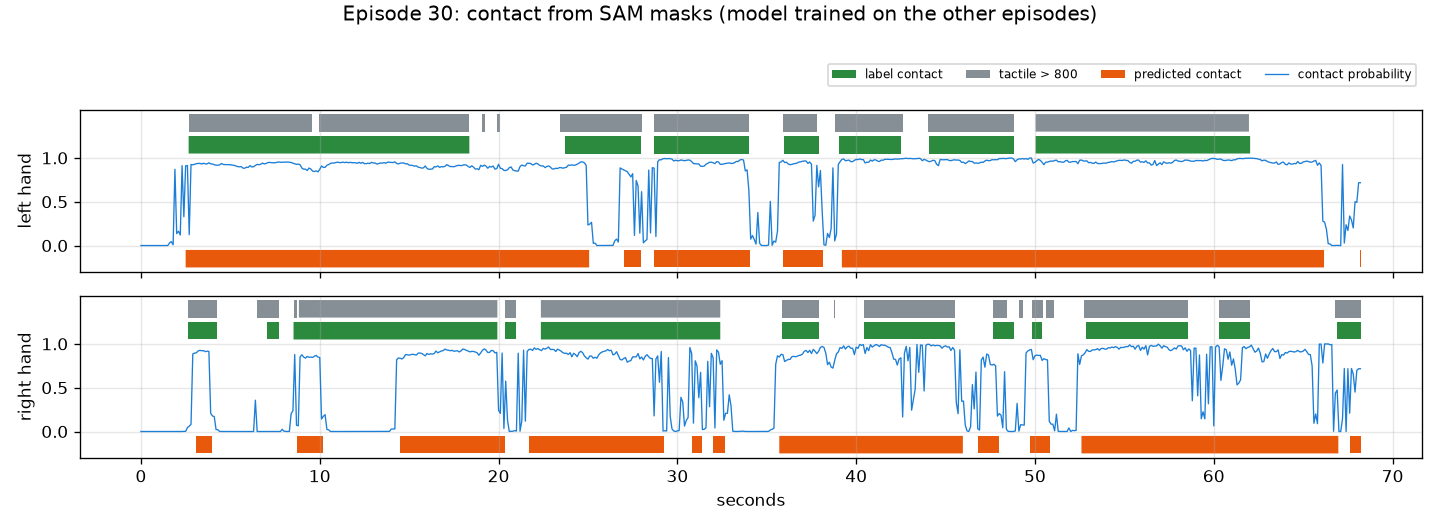
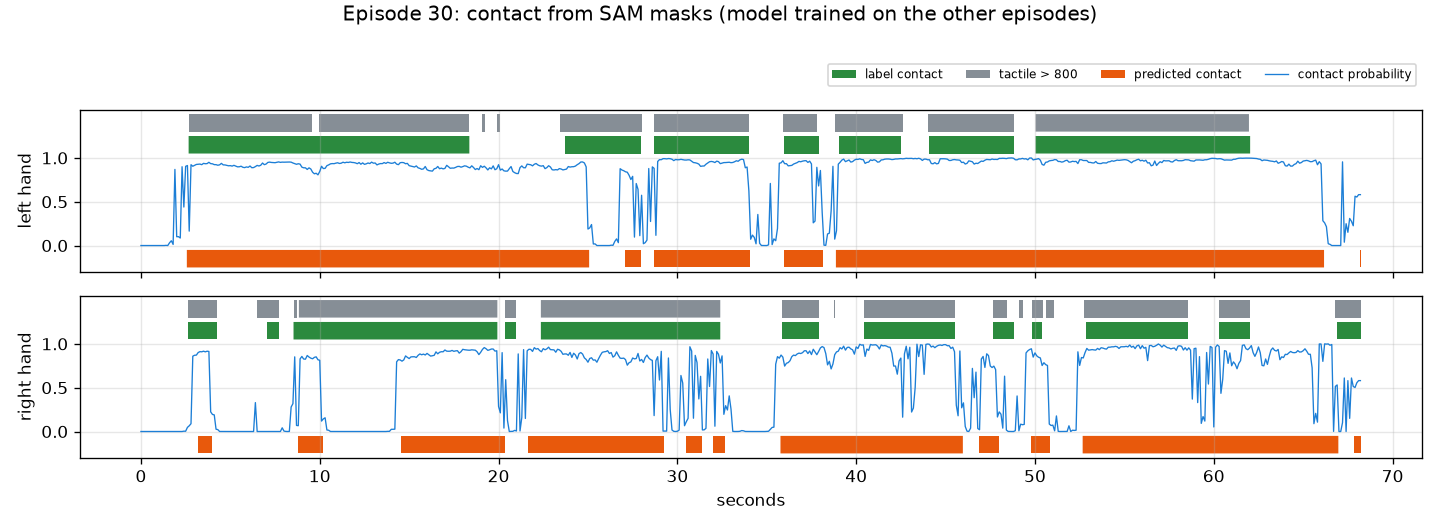
Make the cleaned glove the main ground truth on the page
The other session fixed the evaluation 1 ground truth: the glove signal
above 800, with dropouts of 0.1 s or less joined and pieces under 0.1 s
dropped, since that flicker is pressure crossing the threshold and no
video method can see it. Raw glove and labels stay as checks.

The measurement plan section, the in-progress scoring notes, the method
table and the phase 2 checklist now say so, and the glove flicker open
problem is closed. EXP-14 lists the cleaned glove rows first as main and
its key names the cleaned glove. EXP-06 notes that its contact figures
were redrawn with the model trained on that ground truth, and the
episode 53 caption no longer quotes end delays the redrawn figure does
not show.

diff --git a/index.html b/index.html
@@ -421,7 +421,7 @@
         </table>
       </div>
     </div>
-    <p class="note">정답은 촉각 장갑(손당 80개 센서 합 &gt; 800), 데이터셋 라벨은 확인용. 지표는 boundary F1(±5, ±15프레임)과 contact IoU, 손별과 합산. B의 시작·끝 지연도 함께 보고. 장갑은 압력을 재고 영상은 압력을 볼 수 없으므로 ±5프레임에서는 세 방법 모두 낮게 나올 수 있고, 주장하는 것은 방법 사이의 차이다.</p>
+    <p class="note">정답은 정리한 촉각 장갑(손당 80개 센서 합 &gt; 800에서 0.1초 이하 끊김은 잇고 0.1초보다 짧은 조각은 버림). 장갑 원신호와 데이터셋 라벨은 확인용으로 같이 보고(EXP-14에서 확정). 지표는 boundary F1(±5, ±15프레임)과 contact IoU, 손별과 합산. B의 시작·끝 지연도 함께 보고. 장갑은 압력을 재고 영상은 압력을 볼 수 없으므로 ±5프레임에서는 세 방법 모두 낮게 나올 수 있고, 주장하는 것은 방법 사이의 차이다.</p>
 
     <div class="tbl" style="margin-top:18px">
       <p class="cap">평가 2: 우리 점수가 로봇 손이 따라할 수 있는 클립을 고르는가</p>
@@ -489,11 +489,6 @@
               <td class="first">방법 B가 연이은 접촉을 묶음</td>
               <td>손이 늘 어떤 물체 곁에 있어 접촉 여러 개가 한 구간이 됨. 경계 190~248개 중 52개만 찾음 (EXP-14)</td>
               <td>가장 가까운 물체가 바뀌거나 손이 잠깐 떨어지면 끊는 규칙을 튜닝 50개에서 정함</td>
-            </tr>
-            <tr>
-              <td class="first">장갑 정답의 깜빡임</td>
-              <td>압력이 임계값을 넘나들어 0.2초 미만 구간과 0.1초 이하 틈이 생김. 영상으로는 볼 수 없는 경계</td>
-              <td>0.1초 이하 끊김과 튀는 값을 정리한 장갑 신호를 주 정답으로 쓰는 안. 검증 세트 전에 결정</td>
             </tr>
             <tr>
               <td class="first">HOT3D 어안 왜곡</td>
@@ -894,7 +889,7 @@ video:  clip.mp4 (150 frames)</pre>
     <!-- EXP-06 -->
     <article class="exp" id="exp-06">
       <div class="exp-h"><span class="id">EXP-06</span><span class="t">접촉 구간 검출 파일럿</span><span class="d">10/27</span></div>
-      <p class="note">이 실험 뒤 측정 계획을 다시 맞추면서, 여기서 쓴 특징 13개 로지스틱 회귀는 비교 대상이 아니라 부록이 됐고 정답의 주 기준은 촉각 장갑으로 바뀌었다. 비교 대상은 요약 페이지의 측정 계획을 따른다.</p>
+      <p class="note">이 실험 뒤 측정 계획을 다시 맞추면서, 여기서 쓴 특징 13개 로지스틱 회귀는 비교 대상이 아니라 부록이 됐고 정답의 주 기준은 촉각 장갑으로 바뀌었다. 비교 대상은 요약 페이지의 측정 계획을 따른다. 접촉 그림 세 장은 주 정답(정리한 장갑)으로 다시 학습한 모델로 새로 그렸고, 표는 처음 실행(라벨, 장갑 원신호) 그대로다.</p>
       <dl class="spec">
         <dt>질문</dt><dd>튜닝 50개를 모두 보내기 전에, SAM 3.1이 에피소드 전체(1~2.5분)에서 추적을 유지하는가. 접촉 추정이 끝까지 돌고 첫 신호가 나오는가.</dd>
         <dt>입력</dt><dd>튜닝 에피소드 3개. 0번은 146초, 투명 용기 사이로 작은 흑백 원판을 옮기며 오른손이 48번 닿는다. 30번은 68초, 주황색 종이 상자. 53번은 74초, 스프레이병이고 머리가 움직인다.</dd>
@@ -994,7 +989,7 @@ video:  에피소드 하나 전체, 10fps
 
       <figure>
         <img src="assets/exp06_ep53_contact.png" loading="lazy" width="1440" height="528" alt="에피소드 53에서 손별 접촉 확률, 예측 접촉, 라벨 접촉, 촉각 접촉을 시간축에 그린 그림">
-        <div class="keys"><span class="key"><i class="ln" style="--c:#1c7ed6"></i>접촉 확률</span><span class="key"><i class="" style="--c:#2b8a3e"></i>라벨상 접촉</span><span class="key"><i class="" style="--c:#868e96"></i>촉각 800 초과</span><span class="key"><i class="" style="--c:#e8590c"></i>예측 접촉</span></div><figcaption>에피소드 53, 에피소드 0과 30으로 학습한 모델. 오래 쥐는 구간은 잡는다. 9초와 13초의 짧게 놓는 순간은 놓치고, 끝은 손이 병 옆에 남아 있는 동안 1~3초 늦는다.</figcaption>
+        <div class="keys"><span class="key"><i class="ln" style="--c:#1c7ed6"></i>접촉 확률</span><span class="key"><i class="" style="--c:#2b8a3e"></i>라벨상 접촉</span><span class="key"><i class="" style="--c:#868e96"></i>촉각 800 초과</span><span class="key"><i class="" style="--c:#e8590c"></i>예측 접촉</span></div><figcaption>에피소드 53, 에피소드 0과 30으로 학습한 모델. 오래 쥐는 구간은 잡는다. 짧게 놓는 순간은 놓치고, 손이 병 옆에 남아 있는 동안 끝이 늦게 끊긴다.</figcaption>
       </figure>
       <div class="two">
         <figure>
@@ -1608,8 +1603,8 @@ video:  에피소드 하나 전체, 10fps
         <div>
           <div class="k">정답 세 가지</div>
           <ul class="plain" style="font-size:13.5px;margin:0">
-            <li>장갑 원신호: 촉각 합 &gt; 800 (계획의 주 정답)</li>
-            <li>장갑 정리본: 0.1초 이하 압력 끊김은 잇고, 0.1초 미만 튀는 값은 버림</li>
+            <li>장갑 정리본 (이 실험 이후 주 정답): 촉각 합 &gt; 800에서 0.1초 이하 압력 끊김은 잇고, 0.1초 미만 튀는 값은 버림</li>
+            <li>장갑 원신호: 정리하지 않은 촉각 합 &gt; 800 (확인용)</li>
             <li>데이터셋 접촉 라벨 (확인용)</li>
           </ul>
         </div>
@@ -1624,11 +1619,11 @@ video:  에피소드 하나 전체, 10fps
           <table class="min">
             <thead><tr><th>정답</th><th>방법</th><th class="n">F1 ±5</th><th class="n">F1 ±15</th><th class="n">IoU</th><th class="n">찾은 경계 / 정답</th></tr></thead>
             <tbody>
+              <tr><td class="first"><b>장갑 정리본 (주)</b></td><td><b>방법 B</b></td><td class="n"><b>0.07</b></td><td class="n"><b>0.15</b></td><td class="n"><b>0.747</b></td><td class="n"><b>52 / 190</b></td></tr>
+              <tr><td class="first">장갑 정리본 (주)</td><td>항상 접촉</td><td class="n">0.02</td><td class="n">0.02</td><td class="n">0.669</td><td class="n">12 / 190</td></tr>
+              <tr><td class="first">장갑 정리본 (주)</td><td>항상 비접촉</td><td class="n">0</td><td class="n">0</td><td class="n">0</td><td class="n">0 / 190</td></tr>
               <tr><td class="first">장갑 원신호</td><td>방법 B</td><td class="n">0.04</td><td class="n">0.12</td><td class="n">0.745</td><td class="n">52 / 248</td></tr>
               <tr><td class="first">장갑 원신호</td><td>항상 접촉</td><td class="n">0.02</td><td class="n">0.02</td><td class="n">0.666</td><td class="n">12 / 248</td></tr>
-              <tr><td class="first">장갑 원신호</td><td>항상 비접촉</td><td class="n">0</td><td class="n">0</td><td class="n">0</td><td class="n">0 / 248</td></tr>
-              <tr><td class="first">장갑 정리본</td><td>방법 B</td><td class="n">0.07</td><td class="n">0.15</td><td class="n">0.747</td><td class="n">52 / 190</td></tr>
-              <tr><td class="first">장갑 정리본</td><td>항상 접촉</td><td class="n">0.02</td><td class="n">0.02</td><td class="n">0.669</td><td class="n">12 / 190</td></tr>
               <tr><td class="first">라벨</td><td>방법 B</td><td class="n">0.02</td><td class="n">0.14</td><td class="n">0.744</td><td class="n">52 / 156</td></tr>
               <tr><td class="first">라벨</td><td>항상 접촉</td><td class="n">0.04</td><td class="n">0.04</td><td class="n">0.663</td><td class="n">12 / 156</td></tr>
             </tbody>
@@ -1639,7 +1634,7 @@ video:  에피소드 하나 전체, 10fps
 
       <figure>
         <img src="assets/exp14_sam_rule_pilot.png" loading="lazy" width="1440" height="684" alt="세 에피소드에서 손별로 장갑 접촉과 방법 B 예측을 시간축에 그린 그림">
-        <div class="keys"><span class="key"><i style="--c:#2b8a3e"></i>장갑 800 초과</span><span class="key"><i style="--c:#e8590c"></i>방법 B 예측 (기준값은 나머지 두 에피소드에서)</span></div>
+        <div class="keys"><span class="key"><i style="--c:#2b8a3e"></i>정리한 장갑 (주 정답)</span><span class="key"><i style="--c:#e8590c"></i>방법 B 예측 (기준값은 나머지 두 에피소드에서 이 정답으로)</span></div>
         <figcaption>오래 쥐는 구간은 찾는다(53번, 0번 왼손). 손이 쉬지 않고 물체들 곁에서 일할 때(0번 오른손, 30번)는 여러 접촉을 하나의 긴 덩어리로 묶는다.</figcaption>
       </figure>
 
@@ -1647,7 +1642,7 @@ video:  에피소드 하나 전체, 10fps
         <li>방법 B와 참고 행 두 개가 장갑과 라벨 정답에 대해 끝까지 돎. 기준값은 다른 에피소드에서 고름. 튜닝 50개에 돌릴 코드는 준비됨.</li>
         <li>방법 B는 IoU에서 "항상 접촉"을 이기지만(0.75 대 0.67) 경계는 190~248개 중 52개만 찾음. 1인칭 시점에서는 손이 늘 어떤 물체 몇 픽셀 안에 있어서 접촉 사이에 근접 구간이 거의 끊기지 않음. EXP-02, 03에서 이미 보였던 문제.</li>
         <li>방법 C도 같은 한계를 가짐. C는 B가 찾은 경계만 옮기므로 B가 묶어 버린 접촉을 되살리지 못함.</li>
-        <li>검증 세트를 돌리기 전에 정할 제안 두 가지: (1) 주 정답을 장갑 정리본으로(깜빡임 정리 규칙은 결과를 보지 않고 지금 고정). (2) 가장 가까운 물체가 바뀌거나 손이 잠깐 떨어지면 접촉을 끊는 규칙 추가, 튜닝 50개에서만 고름.</li>
+        <li>결정: 주 정답을 장갑 정리본으로 확정(깜빡임 정리 규칙은 결과를 보지 않고 고정). 남은 것: 가장 가까운 물체가 바뀌거나 손이 잠깐 떨어지면 접촉을 끊는 규칙 추가, 튜닝 50개에서만 고름.</li>
         <li>에피소드 3개로는 규칙을 고를 수 없음. 다음 단계는 튜닝 나머지 47개 SAM 실행이 필요함(유료 호출 보류 중).</li>
       </ul>
     </article>
@@ -1668,7 +1663,7 @@ video:  에피소드 하나 전체, 10fps
 
     <h3>채점</h3>
     <ul class="plain">
-      <li>정답: 촉각 장갑(손당 80개 센서 합 &gt; 800). 데이터셋 라벨은 확인용으로 같이 채점.</li>
+      <li>정답: 정리한 촉각 장갑(손당 80개 센서 합 &gt; 800에서 0.1초 이하 끊김은 잇고 0.1초보다 짧은 조각은 버림). 압력이 임계값을 넘나들며 생기는, 영상으로는 볼 수 없는 깜빡임을 없앤 것. 장갑 원신호와 데이터셋 라벨은 확인용으로 같이 채점.</li>
       <li>boundary F1(±5, ±15프레임, 시작은 시작끼리 끝은 끝끼리 1:1), contact IoU. 손별과 합산.</li>
       <li>허용 범위와 지표는 검증 세트를 돌리기 전에 지금 고정함.</li>
     </ul>
@@ -1743,7 +1738,7 @@ video:  에피소드 하나 전체, 10fps
             <tr>
               <td class="first">평가 1</td>
               <td>영상만으로 접촉 시작과 끝을 찾는가</td>
-              <td>OpenGraph 촉각 장갑(센서 합 &gt; 800). 확인용 데이터셋 라벨</td>
+              <td>OpenGraph 촉각 장갑(센서 합 &gt; 800, 0.1초 미만 깜빡임 정리). 확인용 장갑 원신호와 데이터셋 라벨</td>
               <td>boundary F1(±5, ±15프레임), contact IoU</td>
             </tr>
             <tr>
@@ -1785,7 +1780,7 @@ video:  에피소드 하나 전체, 10fps
 
   <footer>
     영상 출처: OpenGraph Ego-Tactile (CC-BY-4.0)<br>
-    마지막 갱신 2026-10-27 21:41 KST
+    마지막 갱신 2026-10-27 21:53 KST
     <p class="demo-link"><a href="demo.html">25초 데모 보기 →</a></p>
   </footer>
 
@@ -1830,7 +1825,8 @@ video:  에피소드 하나 전체, 10fps
         ["done", "SAM 입력 결정 (small object, 10fps)"],
         ["done", "72개 에피소드 10fps 클립 준비, SAM 출력 디코더 고속화"],
         ["done", "파일럿 3개로 전 과정 확인 (EXP-06)"],
-        ["done", "측정 계획 고정 (정답은 촉각 장갑, 비교 대상 3가지)"],
+        ["done", "측정 계획 고정 (비교 대상 3가지)"],
+        ["done", "주 정답 확정: 깜빡임을 정리한 촉각 장갑"],
         ["done", "방법 B와 참고 행 구현, 파일럿 3개로 점검 (EXP-14)"],
         ["todo", "튜닝 나머지 47개 SAM 실행 (유료 호출 보류)"],
         ["todo", "B SAM 규칙 기준값과 시작 지연 정하기 (튜닝 50개)"],

diff --git a/scripts/contact_cut.py b/scripts/contact_cut.py
@@ -21,7 +21,9 @@ Scores, pooled over episodes and hands:
   boundary F1 at +-5 frames (0.167 s) and +-15 frames (0.5 s), starts and ends
   matched one to one, only to the same kind;
   contact IoU over all frames.
-Ground truth: dataset labels (annotation.hand), and tactile sum > 800 as a check.
+Ground truth (fixed 2026-10-27): the cleaned glove is the main one, tactile sum > 800
+with dropouts up to 0.1 s joined and blips under 0.1 s dropped (clean_glove). The raw
+glove and the dataset labels (annotation.hand) are reported next to it as checks.
 """
 
 import argparse
@@ -63,7 +65,7 @@ GLOVE_JOIN, GLOVE_MIN = 3, 3  # frames: join pressure dropouts up to 0.1 s, drop
 
 
 def clean_glove(mask):
-    """Glove contact after removing threshold flicker (an option for the main ground truth, see EXP-14)."""
+    """Main ground truth: glove contact after removing threshold flicker (EXP-14)."""
     out = np.zeros_like(mask)
     runs = []
     for a, b in segments(mask):
@@ -346,14 +348,14 @@ def load_cached(eps, gt):
     return data
 
 
-def fit(units, target="label"):
+def fit(units, target="tactile_clean"):
     x = np.vstack([u["x"] for u in units])
     y = np.concatenate([u["y"][target] for u in units])
     model = make_pipeline(StandardScaler(), LogisticRegression(C=0.5, max_iter=2000))
     return model.fit(x, y)
 
 
-def evaluate(units, probs, hi, lo, shifts, target="label"):
+def evaluate(units, probs, hi, lo, shifts, target="tactile_clean"):
     sc = Score()
     for u, p in zip(units, probs):
         segs = to_30fps(postprocess(p, hi, lo), u["n30"], 0, *shifts)
@@ -361,7 +363,7 @@ def evaluate(units, probs, hi, lo, shifts, target="label"):
     return sc.result()
 
 
-def tune_post(units, probs, target="label"):
+def tune_post(units, probs, target="tactile_clean"):
     """Pick thresholds on out-of-fold probabilities, then the start and end delay."""
     best = None
     for hi in (0.4, 0.5, 0.6, 0.7):
@@ -419,7 +421,7 @@ def cmd_cv(args):
     data = load_cached(eps, gt)
     folds = [eps[i::5] for i in range(5)]
     report = {"episodes": eps}
-    for target in ("label", "tactile"):
+    for target in ("tactile_clean", "tactile", "label"):
         units, probs, keys = [], [], []
         for fold in folds:
             train = [u for (e, s), u in data.items() if e not in fold]
@@ -436,13 +438,13 @@ def cmd_cv(args):
             "logreg_cv_no_shift": evaluate(units, probs, hi, lo, (0, 0), target),
             "rule_gap_3px": evaluate(units, [rule_probs(u) for u in units], 0.5, 0.5, (0, 0), target),
         }
-        if target == "label" and args.plot:
+        if target == "tactile_clean" and args.plot:
             plot_cv([int(e) for e in args.plot.split(",")], keys, units, probs, hi, lo, shifts)
-    model = fit(list(data.values()), "label")
+    model = fit(list(data.values()), "tactile_clean")
     coef = model[-1].coef_[0].reshape(len(CONTEXT), len(BASE))
     report["coef_at_offset_0"] = dict(zip(BASE, np.round(coef[CONTEXT.index(0)], 3).tolist()))
     (OUT / "cv_report.json").write_text(json.dumps(report, indent=1))
-    print(json.dumps({t: report[t] for t in ("label", "tactile")}, indent=1))
+    print(json.dumps({t: report[t] for t in ("tactile_clean", "tactile", "label")}, indent=1))
 
 
 def cmd_features(args):
@@ -464,7 +466,7 @@ def cmd_smoke(args):
         n10 = 50
         feats, rec = unit_features(folder, suffix, n10)
         for s in SIDES:
-            g30 = {g: gt[ep][g][s][start:start + 150] for g in ("label", "tactile")}
+            g30 = {g: gt[ep][g][s][start:start + 150] for g in ("label", "tactile", "tactile_clean")}
             units.append({"name": f"{name}_{s}", "x": with_context(feats[s]), "base": feats[s],
                           "y": {g: g30[g][::STEP] for g in g30}, "n30": 150, "gt30": g30, "gap": rec[s]["gap"]})
     for u in units:
@@ -542,8 +544,8 @@ def cmd_rule(args):
     split = json.loads((ROOT / "splits" / "opengraph.json").read_text())
     eps = [e for e in split["tune"] if (OUT / "features" / f"episode_{e:06d}.npz").exists()]
     data = load_cached(eps, ground_truth(eps))
-    report = {"episodes": eps, "note": "glove = tactile sum > 800 (main), label = dataset labels (check)"}
-    for target, name in (("tactile", "glove"), ("tactile_clean", "glove_clean"), ("label", "label")):
+    report = {"episodes": eps, "note": "glove_clean = tactile sum > 800 with flicker under 0.1 s removed (main). glove = raw tactile sum > 800 and label = dataset labels (checks)"}
+    for target, name in (("tactile_clean", "glove_clean"), ("tactile", "glove"), ("label", "label")):
         sc, chosen, per_ep = Score(), {}, {}
         for ep in eps:
             train = [u for (e, s), u in data.items() if e != ep]
@@ -566,7 +568,7 @@ def cmd_rule(args):
             "contact_share": round(float(np.mean(np.concatenate([u["gt30"][target] for u in units]))), 3),
         }
     (OUT / "rule_report.json").write_text(json.dumps(report, indent=1, default=str))
-    for name in ("glove", "glove_clean", "label"):
+    for name in ("glove_clean", "glove", "label"):
         r = report[name]
         print(name, "contact share", r["contact_share"])
         for row in ("arm_B_sam_rule_leave_one_out", "reference_always_in_contact", "reference_never_in_contact"):
@@ -577,7 +579,7 @@ def cmd_rule(args):
         print("  per episode", r["arm_B_per_episode"])
         print("  chosen", r["arm_B_chosen_on_other_episodes"])
     if args.plot:
-        plot_rule([int(e) for e in args.plot.split(",")], data, report["glove"]["arm_B_chosen_on_other_episodes"])
+        plot_rule([int(e) for e in args.plot.split(",")], data, report["glove_clean"]["arm_B_chosen_on_other_episodes"])
 
 
 def plot_rule(eps, data, chosen):
@@ -594,7 +596,7 @@ def plot_rule(eps, data, chosen):
             pm = np.zeros(u["n30"], bool)
             for a, b in to_30fps(rule_segments(u["base"], u["gap"], **params), u["n30"], 0, *shifts):
                 pm[a:b] = True
-            for mask, c, lab in ((u["gt30"]["tactile"], "#2b8a3e", f"{s}: glove > 800"),
+            for mask, c, lab in ((u["gt30"]["tactile_clean"], "#2b8a3e", f"{s}: glove (main truth)"),
                                  (pm, "#e8590c", f"{s}: arm B (SAM rule)")):
                 ax.fill_between(t, y, y + 0.8, where=mask, color=c, step="mid", lw=0)
                 ticks.append((y + 0.4, lab))

diff --git a/docs/PROGRESS.md b/docs/PROGRESS.md
@@ -16,7 +16,7 @@ git 저장소는 `~/graspgrade`에 init만 했고 커밋은 0개다.
 상세와 근거는 [MEASUREMENT_PLAN.md](MEASUREMENT_PLAN.md) (영어, 제출용). 요약:
 
 - 숫자 1 비교군을 지원서대로 3개로 되돌린다: A Muse Spark 단독 (5fps 프레임), B SAM 규칙 (마스크 겹침 + 동반 이동, 임계값은 튜닝에서), C B + Muse Spark 경계 확인 (경계 주변 약 7프레임). 참고 행 "항상 접촉" / "항상 비접촉". EXP-06 로지스틱 회귀는 부록이며 비교군이 아니다.
-- 숫자 1 정답은 장갑 촉각(80 택셀 합 > 800)이 주, 데이터셋 라벨은 확인용. 지표는 boundary F1 ±5 / ±15프레임과 contact IoU, 손별 + 합산. 허용 창은 지금 고정한다.
+- 숫자 1 정답 (확정): 장갑 촉각(80 택셀 합 > 800)에서 0.1초 이하 끊김을 잇고 0.1초 미만 조각을 버린 정리본이 주 정답. 장갑 원신호와 데이터셋 라벨은 확인용으로 같이 보고 (EXP-14). 지표는 boundary F1 ±5 / ±15프레임과 contact IoU, 손별 + 합산. 허용 창은 지금 고정한다.
 - 숫자 2 최종 클립 세트는 EXP-11: 가중치 학습은 튜닝 400개(seed 20261026), AUC는 held-out 1,426개 전부. EXP-07(2,152개)은 비용 추정 전용이다.
 - 숫자 2 비교: (1) 우리 점수 vs Muse 단독 (주 비교), (2) 물체별 copyable 비율만 쓴 참고 기준선, (3) Muse 단독 vs Muse + 우리 7개 항목 (보완재 프레이밍). AUC 신뢰구간은 시퀀스 51개 단위 부트스트랩, 사람별 AUC, 상위 20% 양성 비율, 한 손 클립만의 결과도 같이.
 - 유료 호출 전 무료 확인: 로컬 3개 항목의 단일 AUC (EXP-12), 물체 기준선 AUC (튜닝, 사람 하나씩 빼기). 신호가 없으면 리타게팅 항목을 "손 모양이 로봇 손에 맞는가"에 가깝게 보강한다.
@@ -111,7 +111,7 @@ SAM 3.1 응답 형식 (브리프 1-5와 일치):
 - `sam_episodes.py`: 에피소드 하나를 요청 하나로 보낸다 (SAM은 요청당 최대 15,000프레임, 가장 긴 에피소드는 10fps로 1,457프레임). 72개 에피소드의 10fps 클립은 `out/sam10/`에 만들어 두었다 (442 MB).
 - `sam_fast.py`: 공식 파서는 마스크 하나에 약 0.4초라 전체 데이터에 18시간쯤 걸린다. 같은 range decoder를 numba로 옮겼고, 345개 마스크가 공식 결과와 비트 단위로 같았다. 박스 끝(x2, y2)은 공식 파서처럼 +1 해서 배타적으로 쓴다.
 - (재정렬 후 부록) `contact_cut.py`: 손별 특징 13개(손과 가장 가까운 물체의 마스크 간격, 손 옆에 붙은 물체 비율, 카메라 움직임을 뺀 물체 이동, 손과의 동반 이동 등) x 앞뒤 문맥 7프레임 → 로지스틱 회귀 → 평활 + 히스테리시스 → 30fps로 되돌리고 튜닝에서 잰 시작/끝 지연만큼 이동. 비교용 규칙(간격 3px 이하)도 같이 평가한다. 튜닝 50개는 에피소드 단위 5-fold CV로 평가한다.
-- 평가: boundary F1 (±5, ±15프레임, 시작과 끝을 따로 1:1 매칭), contact IoU. 재정렬 후 정답은 촉각 800(주), 라벨(확인용).
+- 평가: boundary F1 (±5, ±15프레임, 시작과 끝을 따로 1:1 매칭), contact IoU. 정답은 정리한 장갑(주), 장갑 원신호와 라벨(확인용). 코드 기본값도 정리본(`tactile_clean`).
 - 두 5초 클립 smoke 테스트로 전 과정이 도는 것만 확인했다 (수치 의미 없음).
 
 유료 단계 (측정 단가 $0.20 / 1,000프레임):
@@ -170,7 +170,7 @@ held-out은 최종 측정 전까지 튜닝에 쓰지 않는다.
 무료 (지금):
 1. (완료, EXP-12) 로컬 3개 항목은 측정은 정확하지만(카메라 vs 머리 회전 0.93, MediaPipe 좌우 96.5%) copyable 예측력이 없다 (AUC 0.49~0.53, 물체 안에서도 0.52~0.53). 물체 기준선은 사람 하나씩 빼고 사람별 평균 AUC 0.70 (0.59~0.81). 사람별 copyable 비율 차이 때문에 사람을 합친 AUC는 왜곡된다 (물체 0.62, 로컬 0.37). held-out도 사람별 AUC를 같이 낸다.
 2. (완료, EXP-13) 영상 손 모양 특징 10개(손 벌림, 손가락 굽힘, 벌어짐, 오므림, 집기/쥐기)는 copyable을 AUC 0.63으로 예측한다 (모캡 상한 0.67). 대부분 물체 크기 대리 신호이고, 물체 안에서는 구분 못 한다 (0.48). 물체만 0.69, 둘을 합치면 0.72. 리타게팅 항목은 "손 모양 적합도"(10개 특징 로지스틱 회귀, 튜닝 3분위 등급, 최종 가중치용 400개와 겹치지 않는 튜닝 클립으로 학습)로 바꾼다. 숫자 2에서 이길 곳은 보완재 비교(Muse 단독 vs Muse + 우리 항목)일 가능성이 높다.
-3. (완료, EXP-14) 숫자 1 B 규칙 구현 (`contact_cut.py rule`). 파일럿 3개 leave-one-out, 장갑 원신호 기준 F1 0.04 (±5) / 0.12 (±15), IoU 0.745 ("항상 접촉" 0.666). 경계를 52개만 찾는다 (정답 248개). 1인칭에서는 손이 늘 어떤 물체 옆에 있어서 접촉 여러 개가 한 덩어리로 묶인다. C는 B의 경계만 고치므로 B가 C의 재현율 상한이다. 결정 필요 두 가지: (1) 장갑 정답에서 0.1초 이하 끊김과 깜빡임 정리 (원신호 경계 248 → 정리 후 190, 라벨 156), (2) 가장 가까운 물체가 바뀌거나 손이 잠깐 떨어지면 접촉을 끊는 규칙 추가 (튜닝 50개로 결정).
+3. (완료, EXP-14) 숫자 1 B 규칙 구현 (`contact_cut.py rule`). 파일럿 3개 leave-one-out, 주 정답(정리한 장갑) 기준 F1 0.07 (±5) / 0.15 (±15), IoU 0.747 ("항상 접촉" 0.669). 경계를 52개만 찾는다 (정답 190개). 1인칭에서는 손이 늘 어떤 물체 옆에 있어서 접촉 여러 개가 한 덩어리로 묶인다. C는 B의 경계만 고치므로 B가 C의 재현율 상한이다. (1) 장갑 정답은 정리본으로 확정 (원신호 경계 248 → 190, 라벨 156). 남은 결정: (2) 가장 가까운 물체가 바뀌거나 손이 잠깐 떨어지면 접촉을 끊는 규칙 추가 (튜닝 50개로 결정).
 4. 숫자 1 A(Muse 단독), C(Muse 경계 확인)와 숫자 2 Muse 호출 코드를 미리 쓴다. 실행은 크레딧이 들어온 뒤.
 5. 어안 왜곡 보정 여부 결정.
 6. 뷰어 뼈대.

diff --git a/docs/experiments/exp14_sam_rule_pilot.md b/docs/experiments/exp14_sam_rule_pilot.md
@@ -30,9 +30,9 @@ This is a code check on three tuning episodes, not a result.
   chosen on the other two episodes (leave one out), by boundary F1 at
   ±15 frames plus IoU.
 - Ground truth:
-  - glove: tactile sum above 800, raw (main, as in the plan),
-  - glove, cleaned: the same, with pressure dropouts up to 0.1 s joined and
-    pressure blips under 0.1 s dropped,
+  - glove, cleaned (main since this experiment): tactile sum above 800, with
+    pressure dropouts up to 0.1 s joined and pressure blips under 0.1 s dropped,
+  - glove, raw: tactile sum above 800 with no cleaning (check),
   - labels: the dataset contact labels (check).
 
 ## Results
@@ -50,11 +50,11 @@ add boundaries that no video method can see: 248 boundaries on the raw glove,
 
 | Ground truth | Method | Boundary F1 ±5 | Boundary F1 ±15 | Contact IoU | Boundaries found / true |
 | --- | --- | --- | --- | --- | --- |
+| **Glove, cleaned (main)** | Arm B | 0.07 | 0.15 | 0.747 | 52 / 190 |
+| Glove, cleaned (main) | Always in contact | 0.02 | 0.02 | 0.669 | 12 / 190 |
+| Glove, cleaned (main) | Never in contact | 0 | 0 | 0 | 0 / 190 |
 | Glove, raw | Arm B | 0.04 | 0.12 | 0.745 | 52 / 248 |
 | Glove, raw | Always in contact | 0.02 | 0.02 | 0.666 | 12 / 248 |
-| Glove, raw | Never in contact | 0 | 0 | 0 | 0 / 248 |
-| Glove, cleaned | Arm B | 0.07 | 0.15 | 0.747 | 52 / 190 |
-| Glove, cleaned | Always in contact | 0.02 | 0.02 | 0.669 | 12 / 190 |
 | Labels | Arm B | 0.02 | 0.14 | 0.744 | 52 / 156 |
 | Labels | Always in contact | 0.04 | 0.04 | 0.663 | 12 / 156 |
 
@@ -68,8 +68,8 @@ picked on the scored predictions, so those numbers are optimistic.
 
 ![arm B on the pilot](img/exp14_sam_rule_pilot.png)
 
-*Green: glove above 800. Orange: arm B, with parameters chosen on the other
-two episodes. Long holds are found (ep53, ep0 left hand). When a hand works
+*Green: the cleaned glove (main ground truth). Orange: arm B, with parameters
+chosen on the other two episodes against it. Long holds are found (ep53, ep0 left hand). When a hand works
 next to objects without pause (ep0 right hand, ep30), arm B joins many
 touches into one long block.*
 
@@ -84,11 +84,11 @@ touches into one long block.*
   between touches. This was already visible in EXP-02 and EXP-03.
 - That limits arm C as well. Arm C only moves the boundaries that arm B
   finds, so it cannot add the touches arm B joined together.
-- Two proposals, to decide before any held-out run:
-  1. Main ground truth: use the cleaned glove (dropouts and blips under 0.1 s
+- Decisions:
+  1. Decided on 2026-10-27: the main ground truth is the cleaned glove (dropouts and blips under 0.1 s
      removed). The raw glove asks video to see pressure flicker. The
      cleaning rule is fixed now and does not use any result.
-  2. Arm B: also break a near-run when the nearest object changes or when
+  2. Still open. Arm B: also break a near-run when the nearest object changes or when
      the hand moves away from the object for a moment. This should split
      touches that follow each other (ep0 right hand). Any new rule is chosen
      on the 50 tuning episodes only.

diff --git a/docs/MEASUREMENT_PLAN.md b/docs/MEASUREMENT_PLAN.md
@@ -32,10 +32,14 @@ The plan below fixes all three. Nothing here needs new data or a new model.
 
 - OpenGraph Ego-Tactile, 72 episodes, 30 fps. Tuning: 50 episodes.
   Held-out: 22 episodes (`splits/opengraph.json`).
-- Main ground truth: the touch glove. A hand is in contact when the sum of
-  its 80 taxels is above 800 (EXP-04).
-- Check: the dataset contact labels, which agree with the glove on 98.7%
-  (left) and 97.2% (right) of frames. Results are reported on both.
+- Main ground truth (fixed 2026-10-27): the touch glove, cleaned. A hand is
+  in contact when the sum of its 80 taxels is above 800 (EXP-04). Pressure
+  dropouts of 0.1 s or less are joined, and pressure blips shorter than
+  0.1 s are dropped (EXP-14). This removes threshold flicker that no video
+  method can see.
+- Checks, reported next to it: the raw glove (no cleaning) and the dataset
+  contact labels. The labels agree with the raw glove on 98.7% (left) and
+  97.2% (right) of frames.
 
 ### What we compare (the three arms from the proposal)
 
@@ -64,15 +68,15 @@ Details fixed now:
 - Boundary F1 at ±5 frames (0.167 s) and ±15 frames (0.5 s). Starts and ends
   are matched one to one, each only to its own kind.
 - Contact IoU over all frames.
-- Reported per hand and pooled, on the glove ground truth and on the labels.
+- Reported per hand and pooled, on the cleaned glove (main), the raw glove
+  and the labels.
 - The start and end delay of arm B against the glove, on tuning and on held-out.
 
 ### Open decisions from the pilot (EXP-14)
 
-- The raw glove signal flickers around the threshold: on three episodes,
-  21 of 124 segments are shorter than 0.2 s and 28 gaps are 0.1 s or less.
-  Proposed: the main ground truth joins glove dropouts up to 0.1 s and drops
-  blips under 0.1 s. To be decided before any held-out run.
+- Decided: the raw glove flickers around the threshold (on three episodes,
+  21 of 124 segments are shorter than 0.2 s and 28 gaps are 0.1 s or less),
+  so the main ground truth is the cleaned glove (see Data and ground truth).
 - Arm B joins touches that follow each other, because the hand stays near
   some object. Proposed: also break a contact when the nearest object
   changes or the hand leaves for a moment, chosen on tuning episodes.

diff --git a/docs/experiments/README.md b/docs/experiments/README.md
@@ -24,6 +24,6 @@ EXP-07 counts clips for pricing only. The clip set for number 2 is EXP-11.
 | [EXP-11](exp11_number2_clips_and_labels.md) | 2026-10-27 | Number 2 clips from hand to object distance, held-out labels | $0 | Fixed rule gives 52.6% copyable on held-out grasps. Mocap clips: 2,385 tuning and 1,426 held-out, 52% to 53% copyable. SAM for all held-out clips plus 400 tuning clips is about $27 with overlapping clips joined. |
 | [EXP-12](exp12_local_checks_signal.md) | 2026-10-27 | Free checklist items and object-only reference | $0 | The three free checks measure well (camera vs headset 0.93) but do not predict copyable (AUC 0.49 to 0.53). Object identity alone reaches 0.70 (leave one person out). Pooled AUC across people is misleading. |
 | [EXP-13](exp13_hand_shape_check.md) | 2026-10-27 | Hand shape during contact as the retargeting check | $0 | Video hand shape predicts copyable at 0.63 (mocap upper bound 0.67), mostly as a stand-in for object size. Object alone 0.69. Both together 0.72. |
-| [EXP-14](exp14_sam_rule_pilot.md) | 2026-10-27 | Arm B (SAM rule) and reference rows, pilot | $0 | Code check on 3 tuning episodes: arm B IoU 0.75 vs 0.67 for always-in-contact, but it finds only 52 of 190 to 248 boundaries. The raw glove flickers under 0.1 s. |
+| [EXP-14](exp14_sam_rule_pilot.md) | 2026-10-27 | Arm B (SAM rule) and reference rows, pilot | $0 | Code check on 3 tuning episodes: arm B IoU 0.75 vs 0.67 for always-in-contact, but it finds only 52 of 190 to 248 boundaries. The raw glove flickers under 0.1 s, so the cleaned glove is now the main ground truth. |
 
 Total Meta API spend so far: about $1.53 of $150.

diff --git a/docs/experiments/exp06_contact_pilot.md b/docs/experiments/exp06_contact_pilot.md
@@ -1,6 +1,6 @@
 # EXP-06: Contact cutting pilot on three whole episodes
 
-> Note, 2026-10-27: the logistic regression tested here is now an appendix. The compared arms for number 1 are set in [the measurement plan](../MEASUREMENT_PLAN.md): Muse Spark alone, a SAM rule (overlap plus co-movement), and the SAM rule plus a Muse Spark boundary check. The main ground truth is the glove (tactile sum above 800).
+> Note, 2026-10-27: the logistic regression tested here is now an appendix. The compared arms for number 1 are set in [the measurement plan](../MEASUREMENT_PLAN.md): Muse Spark alone, a SAM rule (overlap plus co-movement), and the SAM rule plus a Muse Spark boundary check. The main ground truth is the cleaned glove (tactile sum above 800, flicker under 0.1 s removed, EXP-14). The contact images on this page were redrawn on 2026-10-27 with the model trained on that ground truth. The tables are from the original run on labels and raw glove.
 
 Date: 2026-10-27. Scripts: `scripts/sam_episodes.py`, `scripts/sam_fast.py`,
 `scripts/sam_track_check.py`, `scripts/contact_cut.py`.

diff --git a/docs/DATA_NOTES.md b/docs/DATA_NOTES.md
@@ -50,6 +50,12 @@ Two ground truths are available for number 1: these anchor labels, or our own
 threshold on the raw tactile columns. The labels are already derived from the
 same tactile signal.
 
+Number 1 main ground truth (fixed 2026-10-27, EXP-14): tactile sum > 800 per
+hand, then dropouts of 0.1 s (3 frames) or less joined and pieces shorter than
+0.1 s dropped (`contact_cut.clean_glove`). The raw glove and the labels are
+reported as checks. On the three pilot episodes this changes the boundary
+count from 248 (raw) to 190 (labels: 156).
+
 Raw tactile as ground truth needs a threshold. With "sum of 80 taxels > 0",
 labels and tactile agree on 97% of frames in episodes 0 to 62 but only 72% to
 74% in episodes 63 to 71, where the gloves read small pressure at rest. With
